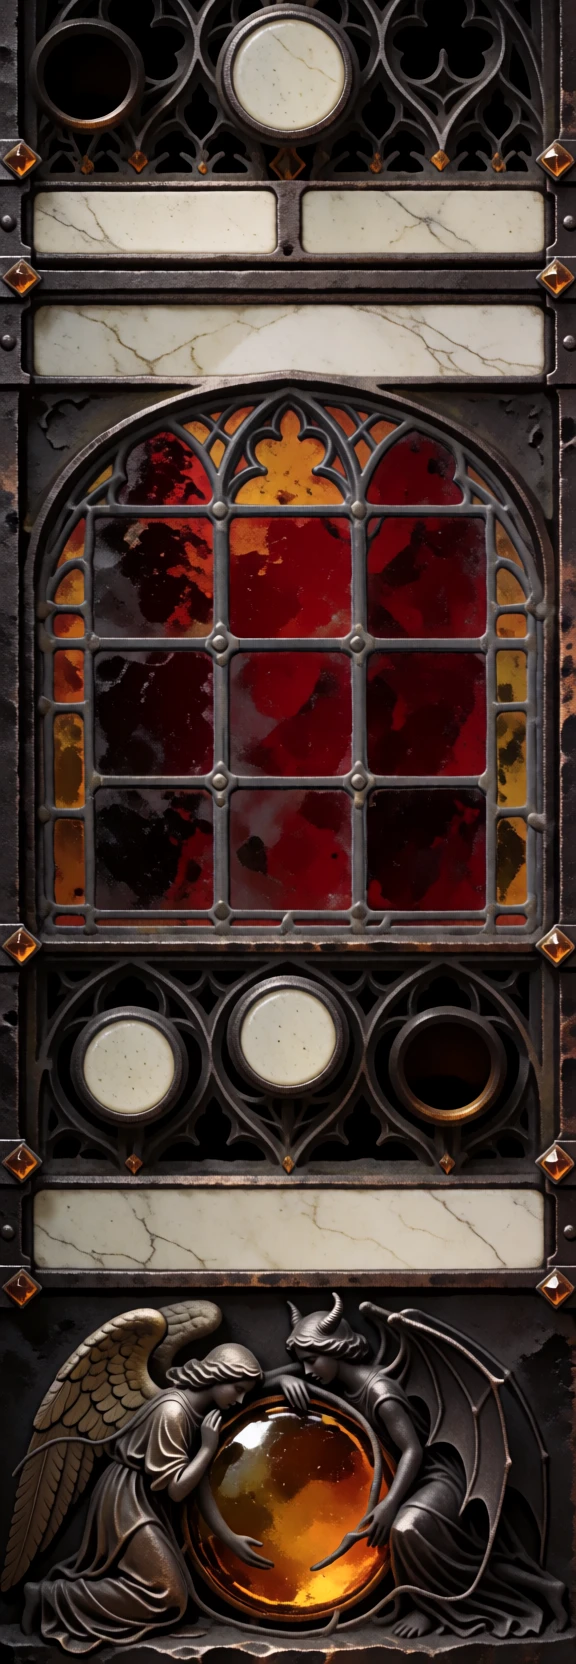
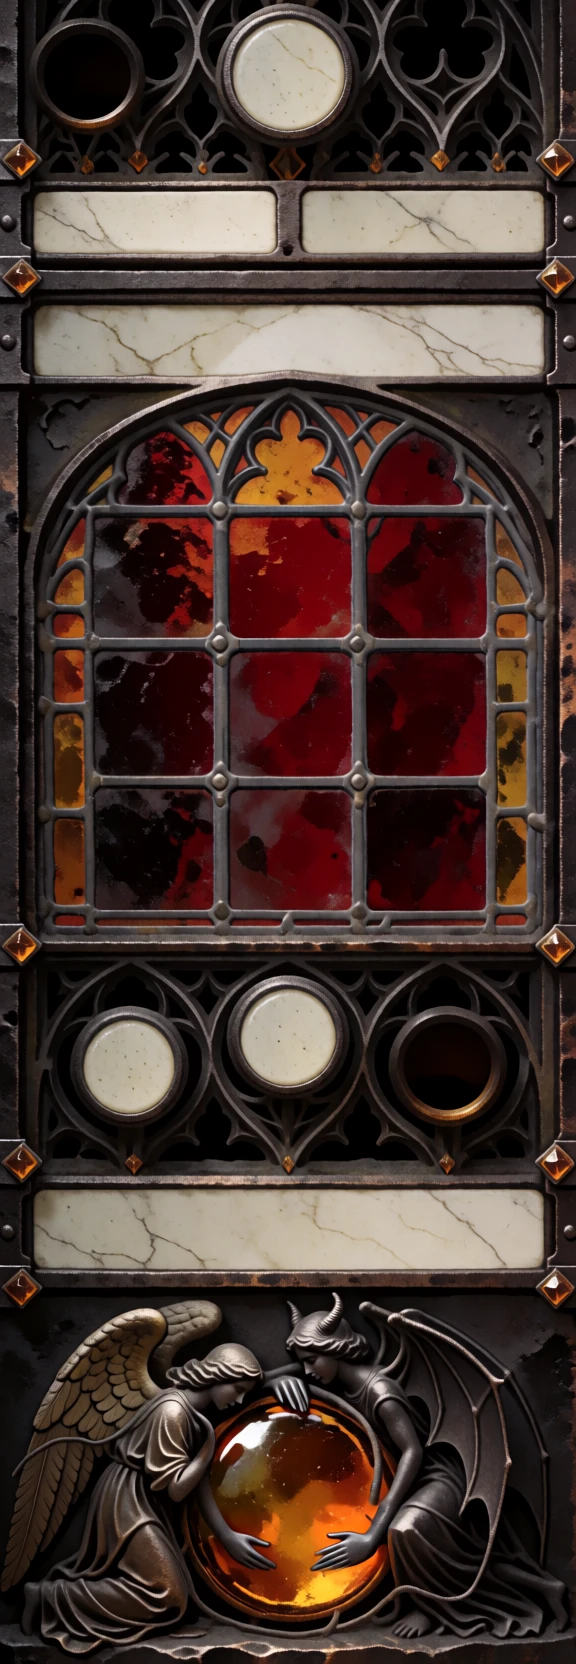
Map column: its figures' hands repaired (one inpaint box per hand); the lesson into the skill

Changed region(s): [[0.3438, 0.8438, 0.5, 0.9688], [0.5312, 0.9062, 0.6875, 0.9688], [0.4688, 0.8125, 0.5625, 0.875]]

diff --git a/assets/ui/SOURCES.md b/assets/ui/SOURCES.md
@@ -31,4 +31,4 @@ removed outright.
 | File | Source |
 |---|---|
 | `battle/bar.webp`, `battle/bar-drained.webp` | `scripts/art/hud-paint-in.ts battle-bar-duel-dull-nostone`, seed 3, its figures' arms and hands repaired by `scripts/art/hud-inpaint.ts duel-hands-full` (strength 0.55, seed 3 left, seed 2 right, combined); the drained copy by `scripts/art/hud_drain.py`: the battle's bottom bar, its windows filled by the game's HTML |
-| `map/column.webp` | `scripts/art/hud-paint-in.ts map-column-duality`, seed 2 (Krea-2 with its depth Control LoRA, from `art/greybox/map-column-duality/`), 576×1664, uncut: the map's right-hand column, its windows filled by the game's HTML |
+| `map/column.webp` | `scripts/art/hud-paint-in.ts map-column-duality`, seed 2 (Krea-2 with its depth Control LoRA, from `art/greybox/map-column-duality/`), its figures' hands repaired by `scripts/art/hud-inpaint.ts column-hands-2` (strength 0.55, seed 2), 576×1664, uncut: the map's right-hand column, its windows filled by the game's HTML |

diff --git a/.claude/skills/hud-paint-in/SKILL.md b/.claude/skills/hud-paint-in/SKILL.md
@@ -99,7 +99,8 @@ When a seed holds the layout but one part is broken (hands, a merged plate), rep
 `pnpm tsx scripts/art/hud-inpaint.ts <repair>` (a repair names the source, boxes in page units, strengths and a
 prompt for that part only). Mask only the broken part, not its frame; hold the repaint to the piece's depth greybox
 (`depth` in the repair) so rims and edges survive; and name what must stay the same size ("a sphere that fills its
-rim edge to edge"), or it shrinks. Separate repairs on one piece can be combined.
+rim edge to edge"), or it shrinks. Separate repairs on one piece can be combined. Use one small box per broken part: a box that also covers a face repaints the face (a relief's iron came
+back as skin), and say the material outright ("no skin, no flesh") and the colour of anything it touches.
 
 ## 5. Lay the real content over it
 Make a mock page: the game's screen as the backdrop (`pnpm tsx scripts/art/hud-backdrop.ts <out.png> "?map&seed=3"`

diff --git a/docs/design/hud-pieces.md b/docs/design/hud-pieces.md
@@ -501,3 +501,9 @@ stuff"): it was; the level was a flat disc drawn over the whole globe, figure an
 painting (`scripts/art/hud_drain.py`: red, saturated pixels darkened; iron and figures unsaturated, unchanged) is shown
 above the level, clipped to the globe. Over a figure the two images are identical, so the level passes behind its
 hands. The number sits in open glass below them.
+
+**The map column's hands** (the user: the column "actually has messed up hands too at the orb"): the first repair, one
+box over all four hands, also caught the succubus's face (it came out as pale skin) and brightened the amber; the
+second, one small box per hand and a prompt that keeps everything iron ("no skin, no flesh") and the glass "deep
+orange amber", changed only the hands (`column-hands-2`, strength 0.55, seed 2, in the game). The lesson for the skill:
+a box per broken part, never one box over a face.
